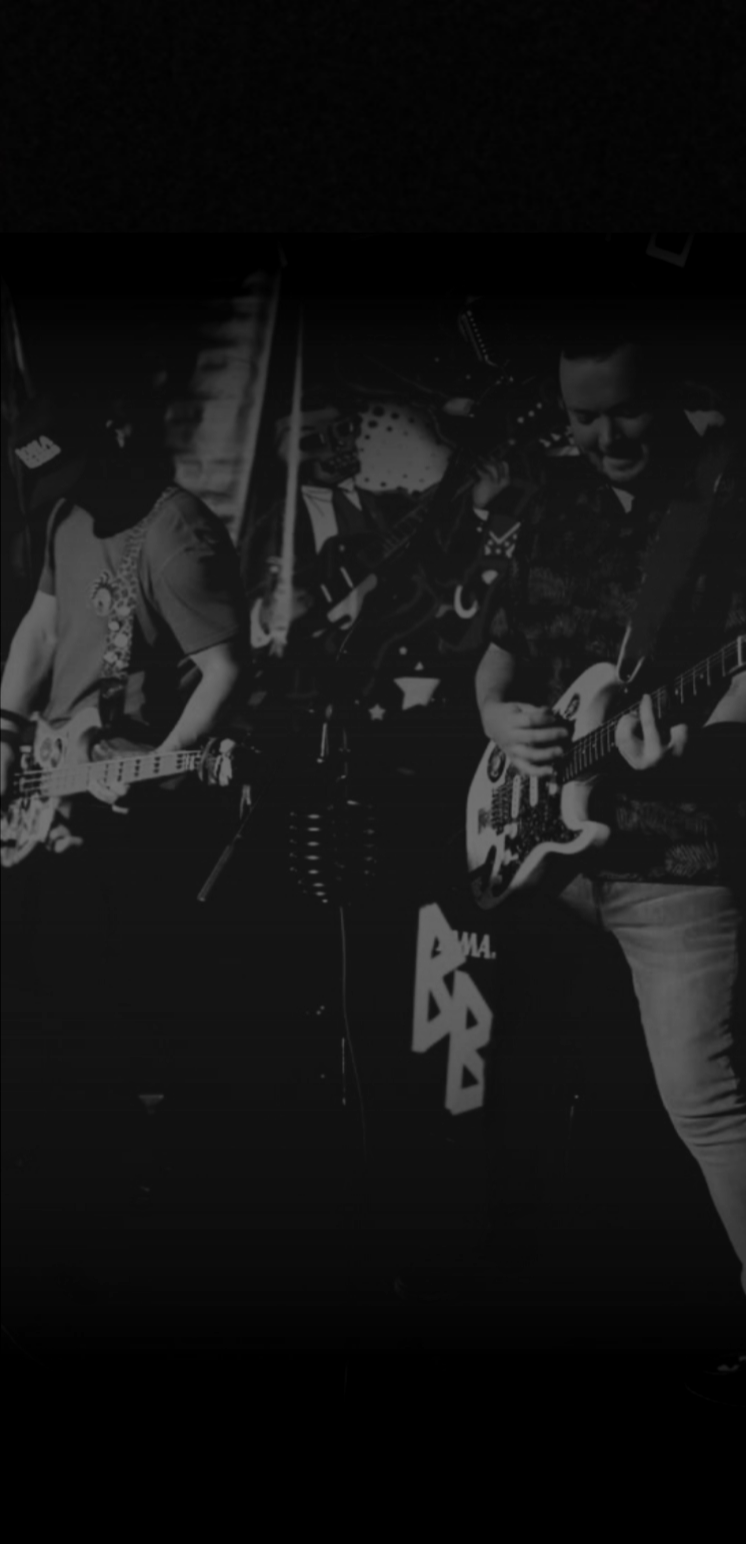
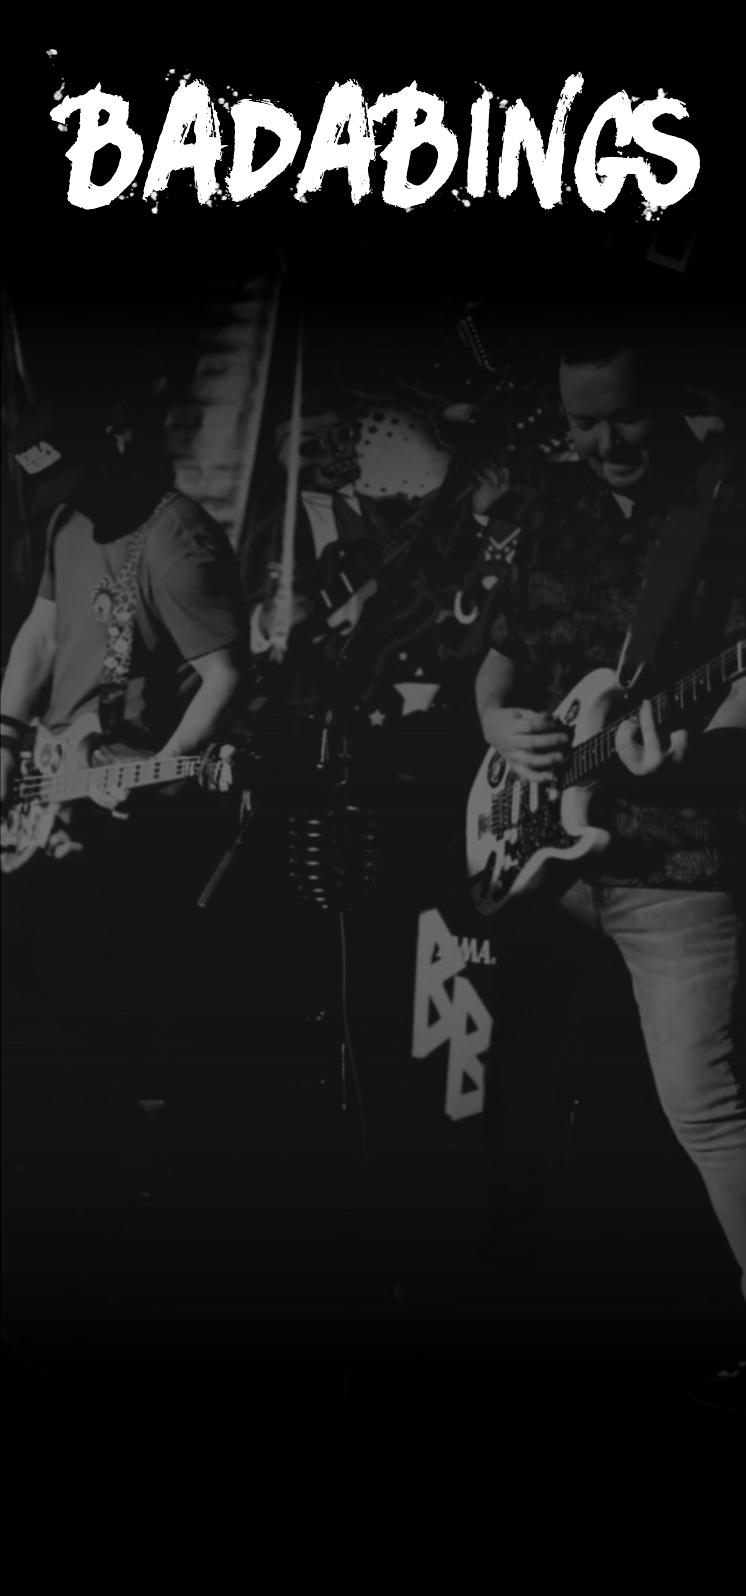
update

diff --git a/apps/band-app/index.html b/apps/band-app/index.html
@@ -248,7 +248,7 @@
                 id="obj-80742"
                 class="block custom-block mt-0 mb-2 pl-0 pr-0"
               >
-              <h1  class="h1 mt-0 mb-0" >Badabings</h1>
+             
                 <figure
                   id="obj-80666"
                   class="figure embed-responsive embed-responsive-21by9"
